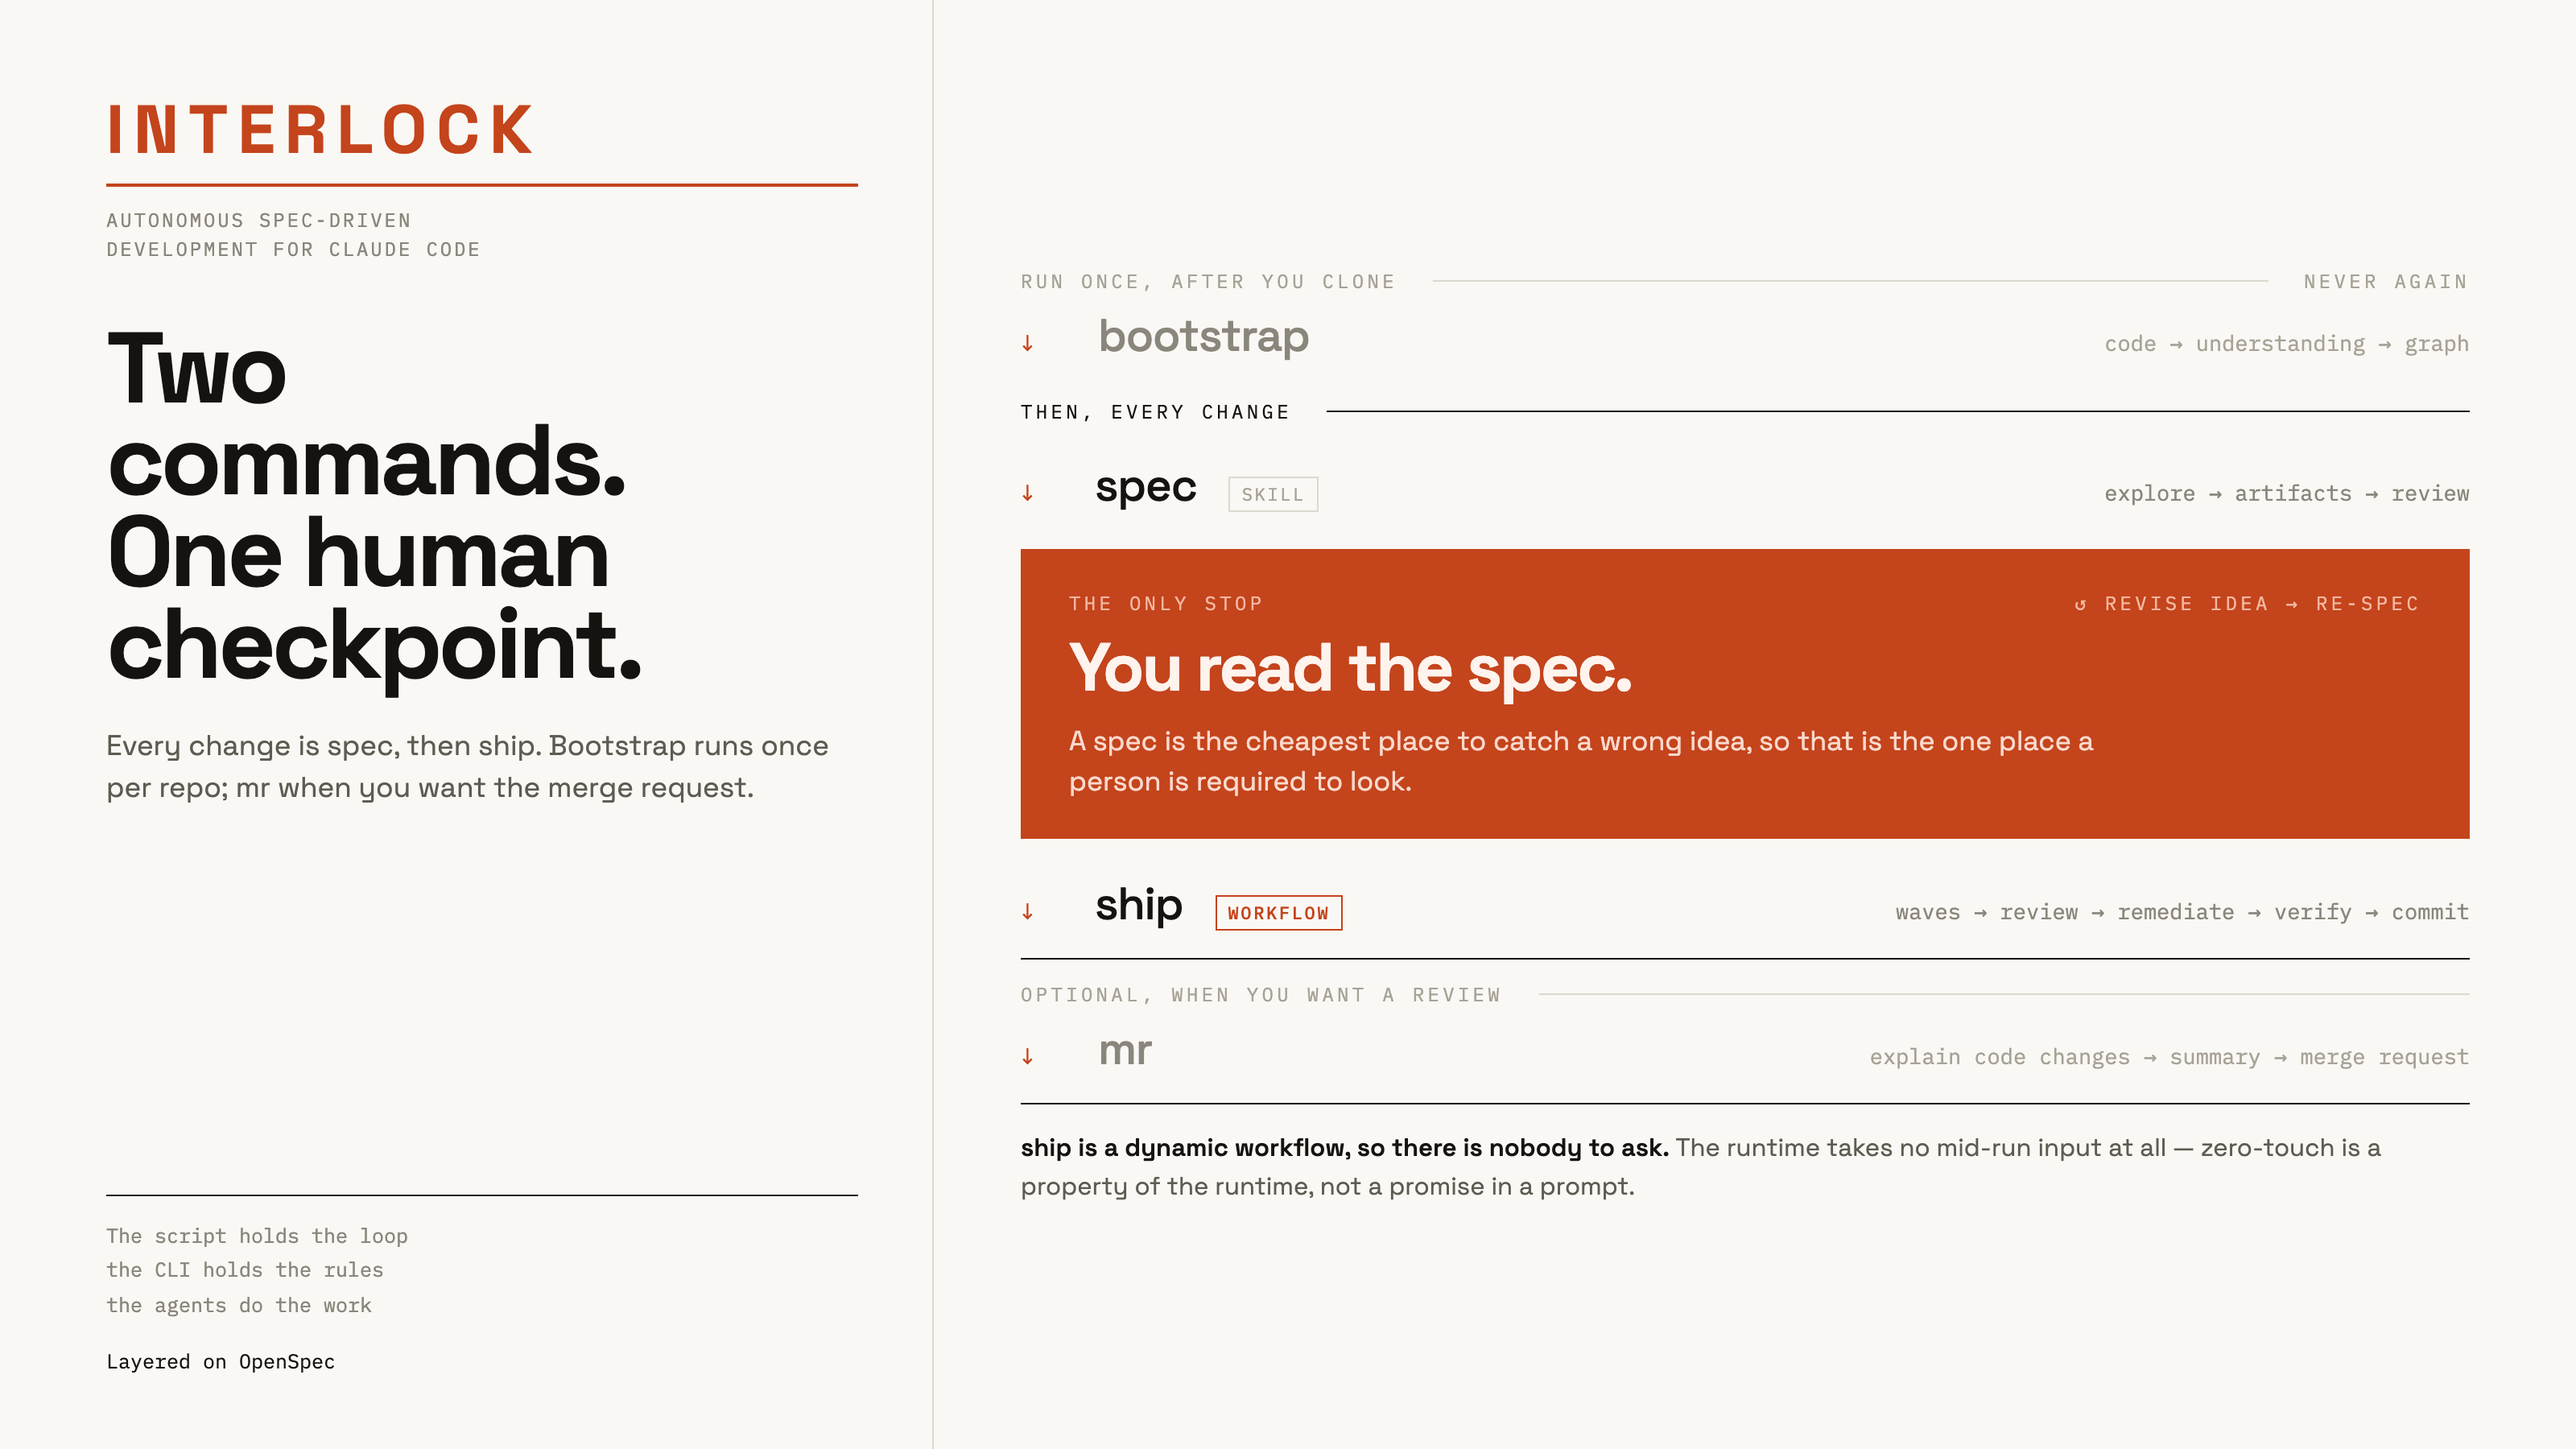
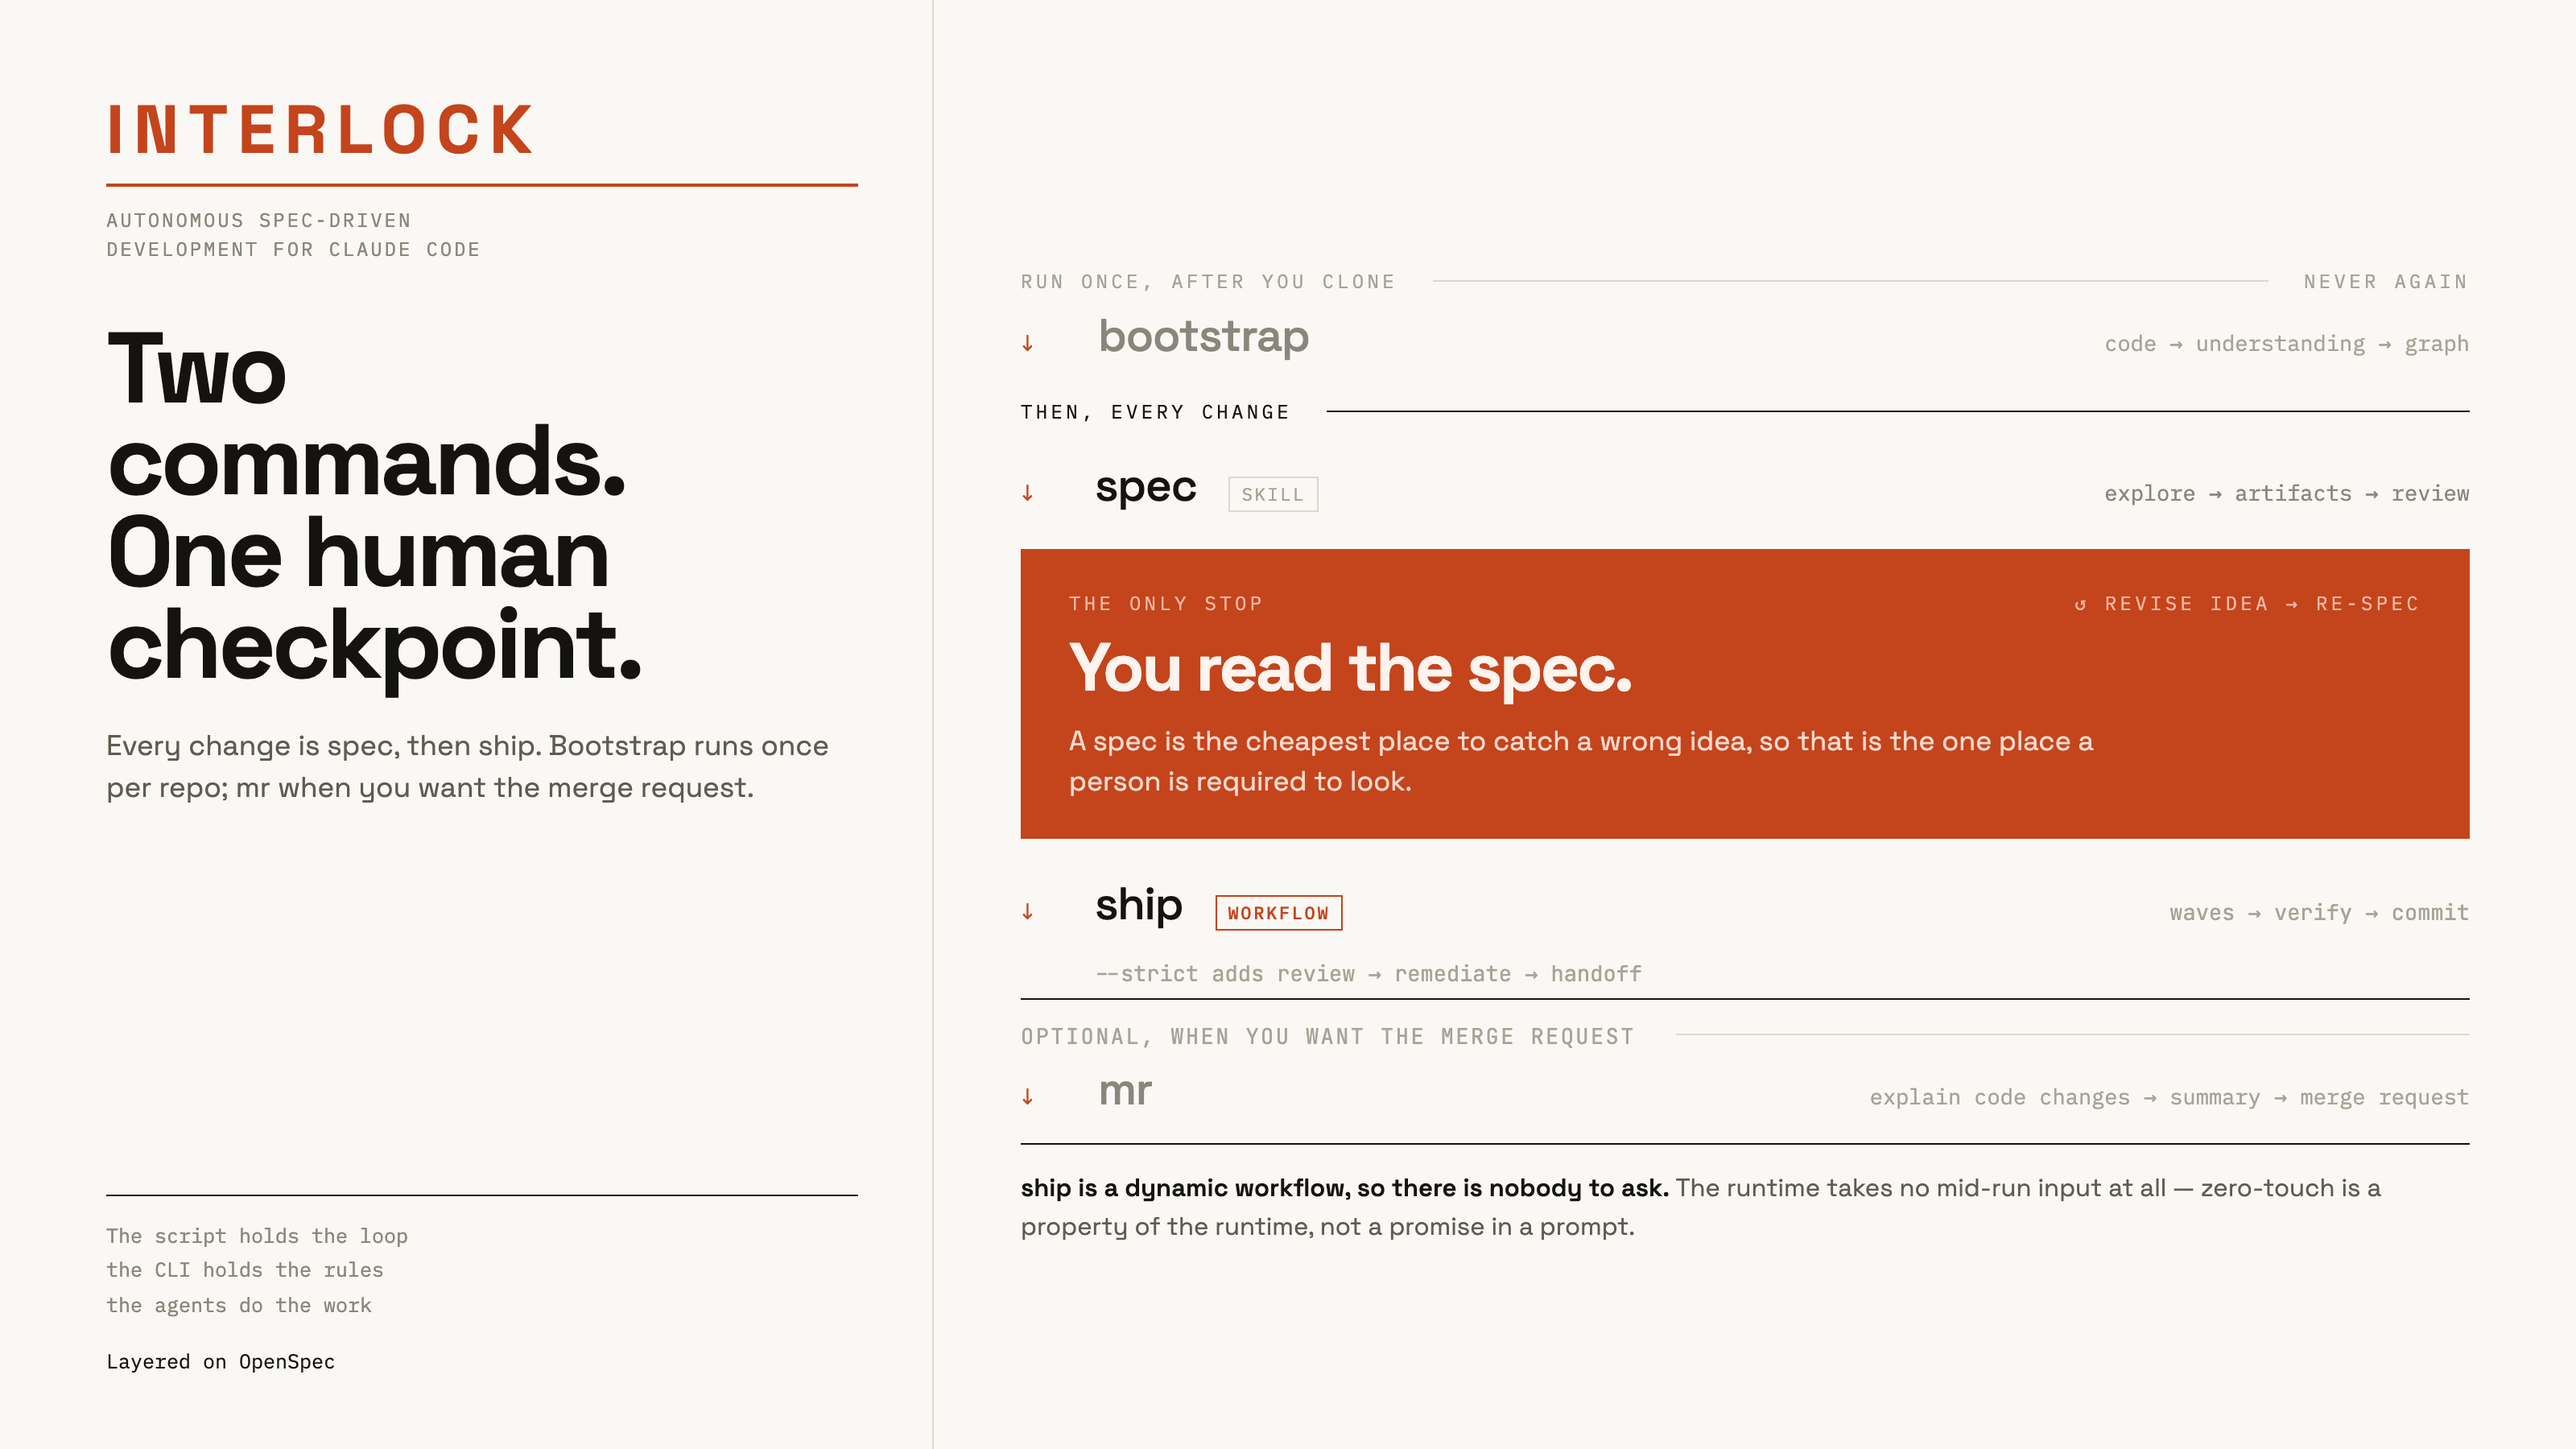
feat(docs): restore readme hero poster

Changed region(s): [[0.4062, 0.6533, 0.9375, 0.8711], [0.7812, 0.6222, 0.9062, 0.6533]]

diff --git a/docs/assets/DESIGN-PROMPT.md b/docs/assets/DESIGN-PROMPT.md
@@ -276,11 +276,26 @@ Every frame's text was checked line by line against Appendix B; nothing was inve
 
 | File | Used by |
 |---|---|
-| `hero-light.png`, `hero-dark.png` | `README.md` hero |
+| `hero-light.png`, `hero-dark.png` | Not in use. The README kept `interlock-flow-wide.png` as its hero (2026-09-14); these stay here for the docs or a later swap |
 | `social-preview.png` | GitHub → Settings → General → Social preview (uploaded, not committed to a path the README reads) |
 | `doctor.png`, `plan-preview.png` | `docs/01-first-hour.md` (allowlist step; ship step) |
 | `halted.png` | `docs/04-when-it-stops.md` (reading a `SHIP HALTED` run) |
 | `strict-complete.png` | `docs/06-why-it-works.md` §7 (reviews) |
 | `limits.png` | `docs/07-cli-and-configuration.md` |
 
-`interlock-flow-wide.png` stays: `docs/09` uses it, and it remains the right image for the flow. Its ship strip reads `waves → review → remediate → verify → commit`, which is the `--strict` sequence; if it is regenerated, the default strip is `waves → verify → commit`.
+`interlock-flow-wide.png` is the README hero and the `docs/09` flow image. Its ship strip is stale; the revision prompt is below.
+
+## Appendix E — poster revision prompt (`interlock-flow-wide.png`)
+
+Paste into Claude Design with the current poster attached. Keep everything not named here exactly as it is: layout, type, palette, the 3200 × 1800 canvas, the left column, the red "You read the spec." block.
+
+Change these four things and nothing else:
+
+1. **The `ship` strip.** It reads `waves → review → remediate → verify → commit`. That is the `--strict` sequence, not the default. Replace it with `waves → verify → commit`, same monospace, same size, right-aligned as now.
+2. **Add one small line under the `ship` row**, in the same grey monospace as the "RUN ONCE, AFTER YOU CLONE" labels: `--strict adds review → remediate → handoff`. Left-aligned under the word `ship`, not in the accent colour.
+3. **The `mr` row label** reads "OPTIONAL, WHEN YOU WANT A REVIEW". `mr` opens a merge request; it does not run the review. Replace with "OPTIONAL, WHEN YOU WANT THE MERGE REQUEST".
+4. **The `bootstrap` strip** reads `code → understanding → graph`. Keep it.
+
+Do not add text, icons, a version number or a URL. Export at 3200 × 1800 PNG as `interlock-flow-wide.png`, replacing the current file.
+
+The default-versus-strict distinction is stated in `README.md` (The flow table) and `docs/01-first-hour.md` Step 4; the poster must agree with both.

diff --git a/README.md b/README.md
@@ -7,10 +7,9 @@
 [![Claude Code ≥ 2.1.154](https://img.shields.io/badge/Claude%20Code-%E2%89%A5%202.1.154-blue)](docs/01-first-hour.md#before-you-start)
 [![MIT](https://img.shields.io/badge/license-MIT-green)](./LICENSE)
 
-<picture>
-  <source media="(prefers-color-scheme: dark)" srcset="docs/assets/hero-dark.png">
-  <img src="docs/assets/hero-light.png" alt="Example output of /interlock:ship: the plan preview names the mode, six tasks in two waves with a maximum of eight parallel agents, two tasks serialized because they share a file; the run ends with SHIP COMPLETE, a commit hash and no degradation banners." width="900">
-</picture>
+<p align="center">
+  <img src="docs/assets/interlock-flow-wide.png" alt="Interlock flow: bootstrap once, then spec, you read the spec, ship, and optionally mr. Two commands, one human checkpoint." width="900">
+</p>
 
 ```bash
 /interlock:spec "<idea>"   # explores your repo, writes a reviewed spec, then stops
